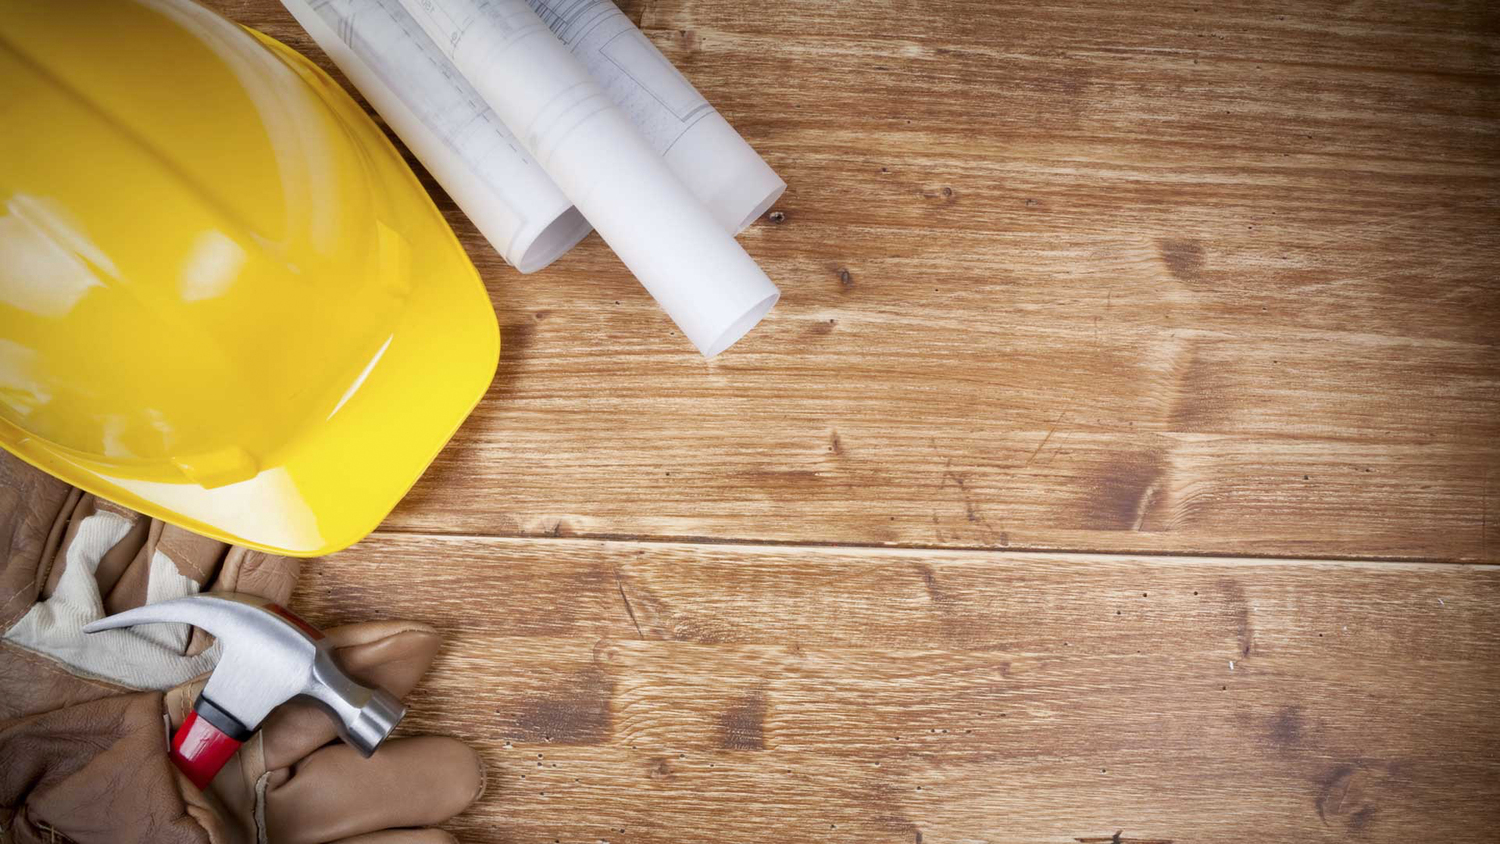
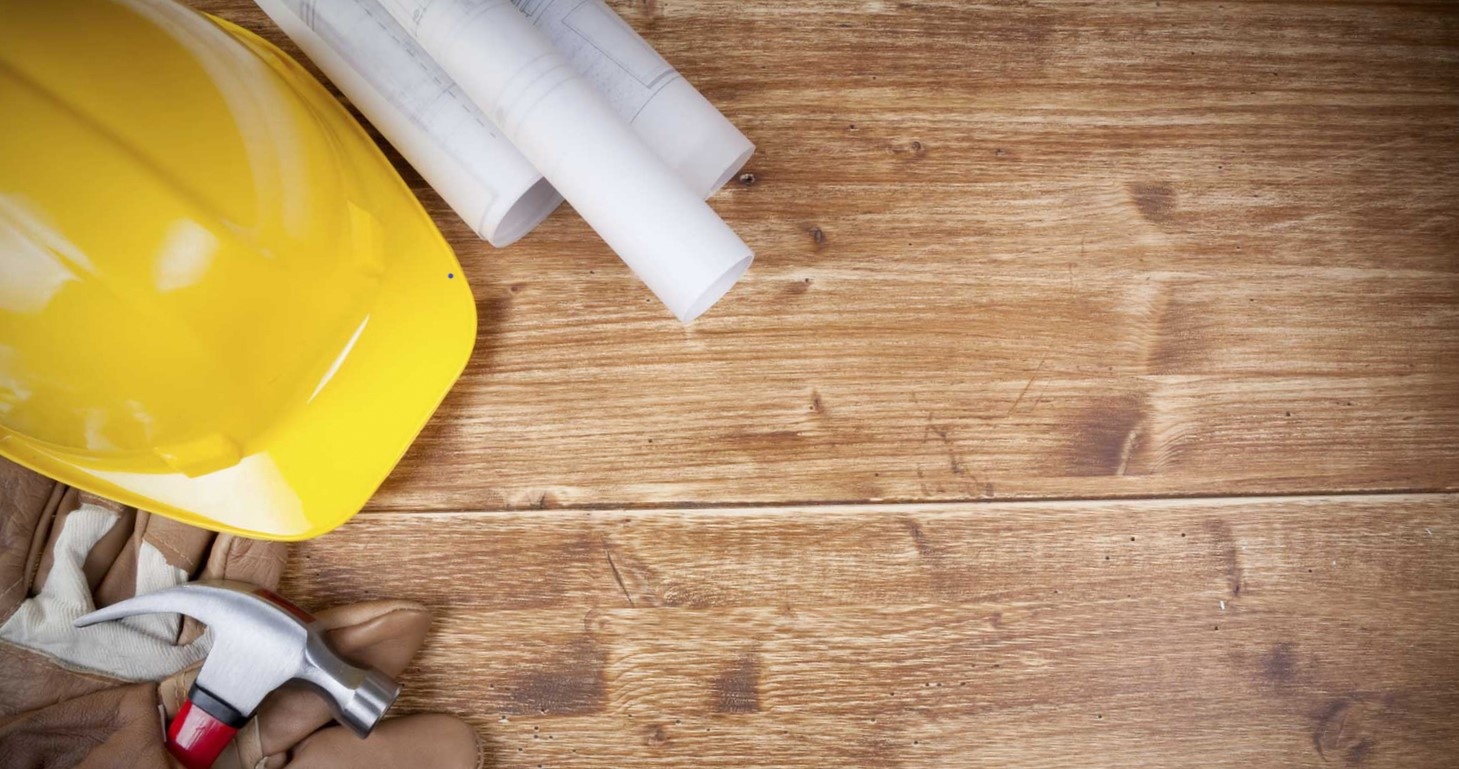
update

diff --git a/src/components/sections/jobs/Jobs.jsx b/src/components/sections/jobs/Jobs.jsx
@@ -1,9 +1,6 @@
 import React from 'react';
 import {ArticleLayout} from '../../common/Layout';
-import {FullColumn} from "../../common/BlockLayout";
-import workerWorkerImg from "../../../images/worker-svg.svg";
-import workerMisterImg from "../../../images/worker-mister.svg";
-import {JobCard} from "../../home/common/Jobs";
+import {FullColumn} from '../../common/BlockLayout';
 
 const Jobs = () => {
 
@@ -11,17 +8,39 @@ const Jobs = () => {
         {
             'id': 1,
             'contract': 'Pozice Dělník',
-            'description': 'Lorem ipsum dolor amet contur adip isicing elit sed eiusm',
-            'img': workerWorkerImg,
-            'icon': '',
-            'to': '/jobs/1'
-        }, {
-            'id': 2,
-            'contract': 'Pozice Mistr',
-            'description': 'Lorem ipsum dolor amet contur adip isicing elit sed eiusm',
-            'img': workerMisterImg,
-            'icon': 'hammer',
-            'to': '/jobs/2'
+            'sections': [
+                {
+                    'id': '1-required',
+                    'title': 'Požadujeme',
+                    'list': [
+                        'Todo',
+                        'Todo',
+                        'Todo',
+                        'Todo',
+                    ]
+                },
+                {
+                    'id': '1-description',
+                    'title': 'Náplň práce',
+                    'list':
+                        [
+                            'Todo',
+                            'Todo',
+                            'Todo',
+                            'Todo',
+                        ]
+                },
+                {
+                    'id': '1-benefits',
+                    'title': 'Nabízíme',
+                    'list': [
+                        'Todo',
+                        'Todo',
+                        'Todo',
+                        'Todo',
+                    ]
+                },
+            ]
         }
     ];
 
@@ -36,16 +55,18 @@ const Jobs = () => {
                 doloribus asperiores repellat. Nullam at arcu a est sollicitudin euismod. Maecenas sollicitudin. Aenean
                 placerat.</p>
 
-            <FullColumn>
-                {jobsData.map(item =>
-                    <JobCard
-                        key={item.id}
-                        title={item.contract}
-                        paragraph={item.description}
-                        image={item.img}
-                        to={item.to}/>
-                )}
-            </FullColumn>
+            <h2 className="border-bottom border-danger font-weight-bold">Hledáme zaměstance na tyto pozice:</h2>
+            {jobsData.map(item =>
+                <FullColumn key={item.id}>
+                    <h3 className="font-weight-bold">{item.contract}</h3>
+                    {item.sections.map(data => <div key={data.id}>
+                        <h4>{data.title}</h4>
+                        <ul>
+                            {data.list.map((listItem, index) => <li key={data.id + '-' + index}>{listItem}</li>)}
+                        </ul>
+                    </div>)}
+                </FullColumn>
+            )}
         </ArticleLayout>
     );
 };

diff --git a/src/components/common/Banner.jsx b/src/components/common/Banner.jsx
@@ -1,8 +1,10 @@
 import React from 'react';
 import styled from 'styled-components';
 import {Col, Row} from 'reactstrap';
-import backgroundImg from '../../images/bg-3.jpg';
+import backgroundImg from '../../images/bg-7.jpg';
 import {FontAwesomeIcon} from '@fortawesome/react-fontawesome';
+import logo from '../../images/logoBrandNegativ.png';
+
 
 const BannerWrapper = styled(Row)`
     background: linear-gradient(rgba(0, 0, 0, 0.5), rgba(0, 0, 0, 0.5)), url(${backgroundImg}) ;
@@ -22,18 +24,18 @@ const Banner = () => {
     return (
         <BannerWrapper className="align-items-center">
             <Col className="">
-                <div className="text-center">
-                    <TitleHeader className="py-4 my-auto">
-                        <h1 className="display-1">Pavel Pinkas</h1>
-                        <h2 className="display-4">2P Stavební</h2>
-                        <h3 className="display-5"><FontAwesomeIcon className="fas" icon="phone"/> +420 606 060 606</h3>
-                    </TitleHeader>
-                </div>
                 {/*<div className="text-center">*/}
                 {/*    <TitleHeader className="py-4 my-auto">*/}
-                {/*        <div><img className="w-50 img-fluid d-block mx-auto" src={logo} alt="2P Stavební"/> </div>*/}
+                {/*        <h1 className="display-1">Pavel Pinkas</h1>*/}
+                {/*        <h2 className="display-4">2P Stavební</h2>*/}
+                {/*        <h3 className="display-5"><FontAwesomeIcon className="fas" icon="phone"/> +420 606 060 606</h3>*/}
                 {/*    </TitleHeader>*/}
                 {/*</div>*/}
+                <div className="text-center">
+                    <TitleHeader className="py-4 my-auto">
+                        <div><img className="w-50 img-fluid d-block mx-auto" src={logo} alt="2P Stavební"/> </div>
+                    </TitleHeader>
+                </div>
             </Col>
         </BannerWrapper>
     );

diff --git a/src/components/home/common/Jobs.jsx b/src/components/home/common/Jobs.jsx
@@ -25,14 +25,14 @@ const jobsData = [
         'description': 'Lorem ipsum dolor amet contur adip isicing elit sed eiusm',
         'img': workerWorkerImg,
         'icon': '',
-        'to': '/jobs/1'
+        'to': '/jobs/'
     }, {
         'id': 2,
         'contract': 'Pozice Mistr',
         'description': 'Lorem ipsum dolor amet contur adip isicing elit sed eiusm',
         'img': workerMisterImg,
         'icon': 'hammer',
-        'to': '/jobs/2'
+        'to': '/jobs/'
     }
 ];
 
@@ -53,11 +53,11 @@ export const JobCard = (props) => {
                 <div>
                     <img src={image} className="img-fluid w-75" alt="item"/>
                 </div>
-                <BlockLink>
-                    <StyledLink to={to} >
-                        <SecondaryButton className="btn-block my-2">{title}</SecondaryButton>
-                    </StyledLink>
-                </BlockLink>
+                {/*<BlockLink>*/}
+                {/*    <StyledLink to={to} >*/}
+                {/*        <SecondaryButton className="btn-block my-2">{title}</SecondaryButton>*/}
+                {/*    </StyledLink>*/}
+                {/*</BlockLink>*/}
             </BlockItem>
         </BlockWrapper>
     );

diff --git a/src/components/menu/TopBar.jsx b/src/components/menu/TopBar.jsx
@@ -20,6 +20,7 @@ const TopBar = (props) => {
     const [contactMenu, setContactMenu] = useState([]);
 
     const toggle = () => setIsOpen(!isOpen);
+    const closeToggle = () => setIsOpen(false);
 
     const {classOnScroll} = props;
     const screenType = useScreenType();
@@ -38,6 +39,7 @@ const TopBar = (props) => {
         <TopNavigation className={`navbar navbar-expand-lg fixed-top ${navbarWrapperStyle()}`} main={isLarge}>
             <Container>
                 <MyNavbarBrand
+                    onClick={showMinLarge(screenType) ? () => {} : closeToggle}
                     main={isLarge.toString()} className="" tag={MenuNavLink}
                     to="/"><MyNavBarBrandImg className="img-fluid" src={logo}/></MyNavbarBrand>
                 <CollapseButton

diff --git a/src/components/common/BannerHeader.jsx b/src/components/common/BannerHeader.jsx
@@ -24,7 +24,7 @@ export const BannerHeader = (props) => {
                 <Col className="">
                     <div className="">
                         <TitleHeader className="py-4 my-auto">
-                            <h1 className="display-4">{props.header}</h1>
+                            <h1 className="">{props.header}</h1>
                         </TitleHeader>
                     </div>
                 </Col>

diff --git a/src/components/common/BlockLayout.jsx b/src/components/common/BlockLayout.jsx
@@ -73,7 +73,7 @@ export const FullColumn = (props) => {
     const {children, className} = props;
     return (
         <div className={`${className} col-12`}>
-            <div className="row clearfix py-2">
+            <div className="py-2">
                 {children}
             </div>
         </div>
